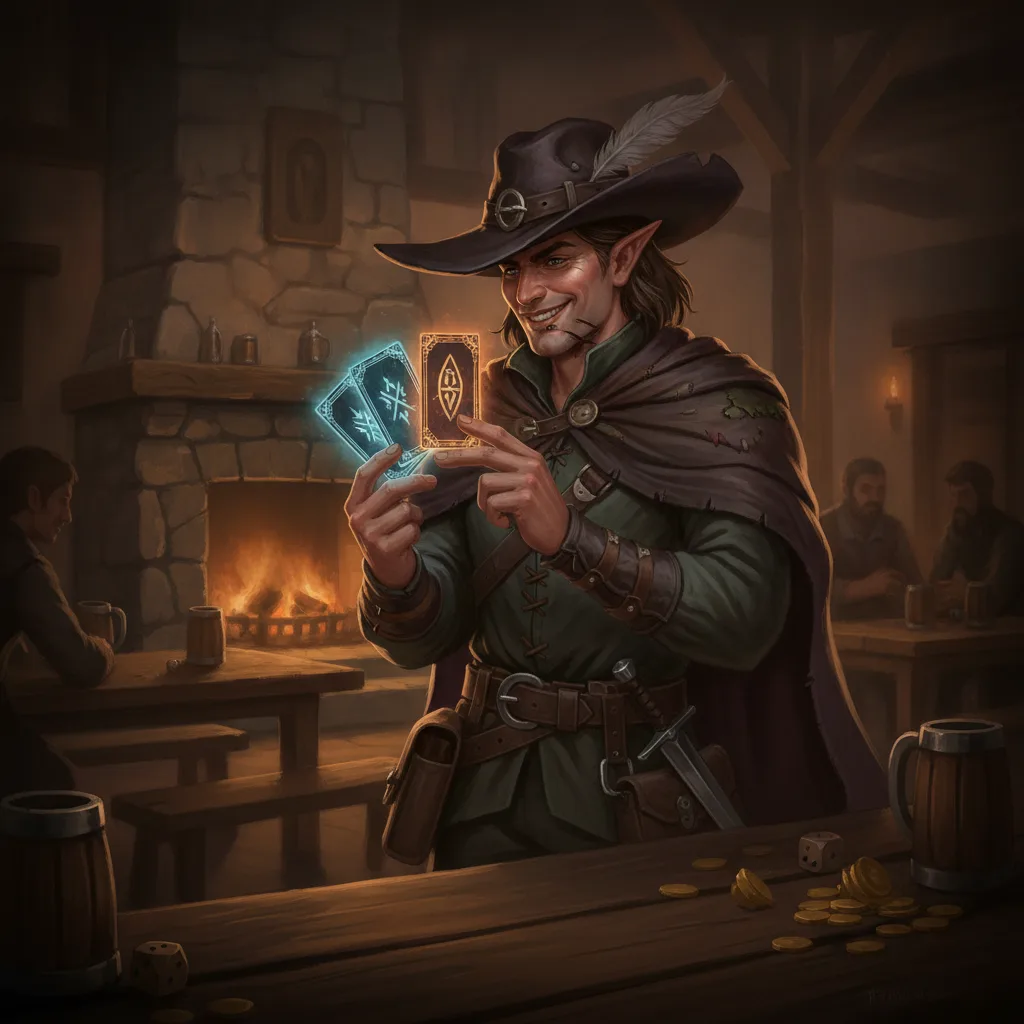
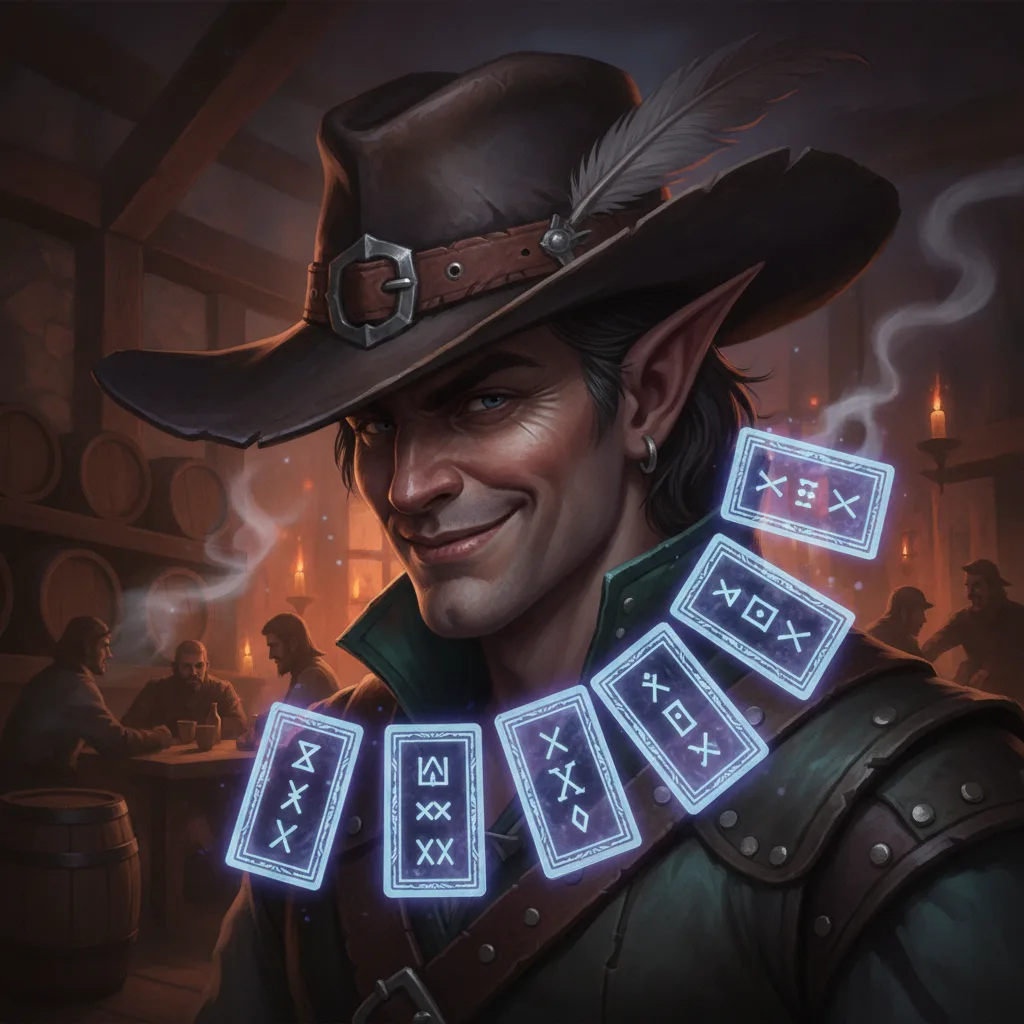
Themed keyword tooltips, two new arenas, face portraits, discard choice
- Keyword chips highlight gold on hover and show a game-styled tooltip
  (fixed-position element, so card overflow can't clip it) instead of the
  browser title popup
- Two new board backgrounds (crypt necropolis, volcanic forge) chosen
  randomly each match; all three preloaded
- Opponent portraits regenerated as close-up face shots
- Drawing at the 7-card hand limit now lets you pick which of the 8 cards to
  discard (15s countdown; timeout/Escape discards the drawn card); AI keeps
  burn-drawn behavior
- generate_art.py --only accepts dir-qualified names (opponents/berserker)
  to disambiguate card/portrait name collisions
- Expose window.game debug handle

diff --git a/public/js/game.js b/public/js/game.js
@@ -148,8 +148,8 @@ export class Game {
 
     // Opening hands: first player 5, second player 6.
     const second = first === 'player' ? 'opponent' : 'player';
-    this._drawCards(first, 5, { silent: true });
-    this._drawCards(second, 6, { silent: true });
+    await this._drawCards(first, 5, { silent: true });
+    await this._drawCards(second, 6, { silent: true });
     ui.render(this);
 
     await this._startTurn(first);
@@ -187,10 +187,10 @@ export class Game {
     await applyStartOfTurnEffects(who, s, this);
     if (s.phase === 'game-over') return;
 
-    this._drawCards(who, 1);
+    await this._drawCards(who, 1);
     while (hero._pendingDraw > 0) {
       hero._pendingDraw -= 1;
-      this._drawCards(who, 1);
+      await this._drawCards(who, 1);
     }
     if (s.phase === 'game-over') return; // fatigue can kill
 
@@ -355,7 +355,7 @@ export class Game {
 
   // ── Drawing ────────────────────────────────────────────────────────────────
 
-  _drawCards(who, n, { silent = false } = {}) {
+  async _drawCards(who, n, { silent = false } = {}) {
     const hero = this.state[who];
     for (let i = 0; i < n; i++) {
       if (hero.deck.length === 0) {
@@ -368,14 +368,39 @@ export class Game {
       }
       const card = hero.deck.pop();
       if (hero.hand.length >= HAND_CAP) {
-        hero.discard.push(card);
-        this.log(`${who === 'player' ? 'Your' : 'Opponent’s'} hand is full — ${who === 'player' ? card.name : 'a card'} is burned.`);
+        if (who === 'player' && this.state.phase !== 'game-over') {
+          await this._chooseDiscard(card);
+        } else {
+          hero.discard.push(card);
+          this.log('Opponent’s hand is full — a card is burned.');
+        }
         continue;
       }
       card._justDrawn = true;
       hero.hand.push(card);
       if (!silent && who === 'player') this.log(`You draw ${card.name}.`);
     }
+  }
+
+  // Hand full on draw: the drawn card joins the hand temporarily and the
+  // player picks which of the 8 to discard. Timeout/Escape discards the
+  // freshly drawn card.
+  async _chooseDiscard(drawnCard) {
+    const hero = this.state.player;
+    drawnCard._justDrawn = true;
+    hero.hand.push(drawnCard); // temporarily 8 cards
+    ui.render(this);
+    this.log(`You draw ${drawnCard.name} — but your hand is full!`);
+
+    const pick = await this._requestTarget(
+      'discard-hand',
+      'Hand full — click a card to discard',
+    );
+    const discard = pick || drawnCard;
+    hero.hand = hero.hand.filter((c) => c !== discard);
+    hero.discard.push(discard);
+    this.log(`You discard ${discard.name}.`);
+    ui.render(this);
   }
 
   // ── Dead sweep + Volatile ──────────────────────────────────────────────────
@@ -513,6 +538,7 @@ export class Game {
   // ── Target selection ───────────────────────────────────────────────────────
 
   // kind: 'any' (enemy creature or hero) | 'friendly' | 'enemy-creature'
+  //       | 'discard-hand' (pick one of your own hand cards)
   _requestTarget(kind, promptText) {
     const s = this.state;
     ui.showSorceryPrompt(promptText, TARGET_TIMEOUT_MS);
@@ -533,6 +559,9 @@ export class Game {
         const e = document.querySelector(`#player-board [data-instance-id="${c.instanceId}"]`);
         if (e) els.push(e);
       }
+    }
+    if (kind === 'discard-hand') {
+      els.push(...document.querySelectorAll('#player-hand .card'));
     }
     ui.highlightTargets(els);
 
@@ -646,6 +675,13 @@ export class Game {
     // Mid-sorcery target selection intercepts clicks.
     if (this._targetRequest) {
       const req = this._targetRequest;
+      if (req.kind === 'discard-hand') {
+        if (cardEl && cardEl.parentElement?.id === 'player-hand') {
+          const card = s.player.hand[Number(cardEl.dataset.handIndex)];
+          if (card) req.finish(card);
+        }
+        return;
+      }
       if (portrait && req.kind === 'any') { req.finish('hero'); return; }
       if (cardEl?.dataset.instanceId) {
         const id = cardEl.dataset.instanceId;
@@ -800,7 +836,7 @@ export class Game {
     if (this._preloaded) return;
     this._preloaded = true;
     const urls = [
-      'assets/board/arena_duel.webp',
+      ...ui.ARENAS.map((a) => `assets/board/${a}.webp`),
       ...['berserker', 'tactician', 'gambler'].map((n) => `assets/opponents/${n}.webp`),
       ...CARDS.map((c) => `assets/cards/${c.art}.webp`),
       `assets/cards/${RECRUIT_TOKEN.art}.webp`,
@@ -856,10 +892,10 @@ const SORCERY_HANDLERS = {
       notation: '1d6', label: 'Coin Flip!', context: '4+: draw 2 · 1–3: draw 1, take 1', bestThreshold: 4,
     });
     if (roll.total >= 4) {
-      game._drawCards(who, 2);
+      await game._drawCards(who, 2);
       game.log('Heads! Draw 2 cards.');
     } else {
-      game._drawCards(who, 1);
+      await game._drawCards(who, 1);
       game.dealToHero(who, 1, { source: card.name });
       game.log('Tails — draw 1, take 1 damage.');
     }
@@ -894,7 +930,7 @@ const SORCERY_HANDLERS = {
       notation: '1d6', label: 'Lucky Draw!', context: '1–2: draw 1 · 3–4: draw 2 · 5–6: draw 3', bestThreshold: 5,
     });
     const n = roll.total <= 2 ? 1 : roll.total <= 4 ? 2 : 3;
-    game._drawCards(who, n);
+    await game._drawCards(who, n);
     game.log(`Lucky Draw: ${n} card${n > 1 ? 's' : ''}.`);
   },
 
@@ -1023,7 +1059,7 @@ const SORCERY_HANDLERS = {
   S016: async (game, who, card) => {
     const roll = await game.roll(who, { notation: '2d6', label: 'Second Wind', context: 'Restore HP + draw a card' });
     game.healHero(who, roll.total, card.name);
-    game._drawCards(who, 1);
+    await game._drawCards(who, 1);
   },
 
   // Meteor — 3d6 to a target; overkill points can return HP (cap 5).
@@ -1071,10 +1107,10 @@ const SORCERY_HANDLERS = {
     if (a === 6 && b === 6) {
       game.critFanfare(who, 'Twin Fates CRITICAL!');
       game.dealToHero(enemyOf(who), roll.total * 2, { source: card.name});
-      game._drawCards(who, 2);
+      await game._drawCards(who, 2);
       game.log(`Twin sixes! ${roll.total * 2} damage AND 2 cards.`);
     } else if (a === b) {
-      game._drawCards(who, 2);
+      await game._drawCards(who, 2);
       game.log(`Doubles (${a}s) — draw 2 cards instead of damage.`);
     } else {
       game.dealToHero(enemyOf(who), roll.total, { source: card.name});
@@ -1168,13 +1204,13 @@ const SORCERY_HANDLERS = {
     const roll = await game.roll(who, {
       notation: '1d6', label: 'Wheel of Fortune!', context: 'Each player draws that many', bestThreshold: 6,
     });
-    game._drawCards('player', roll.total);
-    game._drawCards('opponent', roll.total);
+    await game._drawCards('player', roll.total);
+    await game._drawCards('opponent', roll.total);
     const bonus = await game.roll(who, {
       notation: '1d6', label: 'The Wheel spins again…', context: '5–6: you draw 1 extra', allowReroll: false,
     });
     if (bonus.total >= 5) {
-      game._drawCards(who, 1);
+      await game._drawCards(who, 1);
       game.log('The Wheel favours the caster — 1 extra card.');
     }
     ui.render(game);

diff --git a/public/css/styles.css b/public/css/styles.css
@@ -347,6 +347,52 @@ button { font-family: inherit; cursor: pointer; }
   padding: 0 3px;
   color: var(--color-focus);
   white-space: nowrap;
+  cursor: help;
+  transition: all var(--transition-fast);
+}
+
+/* Hovering a keyword lights it up and summons the themed tooltip. */
+.keyword-chip:hover {
+  background: var(--color-focus);
+  color: #1a0f05;
+  border-color: var(--color-crit);
+  box-shadow: 0 0 8px #e8a830aa;
+}
+
+#keyword-tooltip {
+  position: fixed;
+  z-index: 1300;
+  display: none;
+  max-width: 260px;
+  padding: 8px 12px;
+  background: linear-gradient(160deg, #2b1d0e, #17100a);
+  border: 1px solid var(--color-focus);
+  border-radius: 8px;
+  box-shadow: 0 6px 24px #000c, 0 0 12px #e8a83033;
+  pointer-events: none;
+}
+
+#keyword-tooltip.visible { display: block; }
+
+.keyword-tooltip-name {
+  font-size: 13px;
+  font-weight: 800;
+  color: var(--color-focus);
+  text-transform: uppercase;
+  letter-spacing: 0.06em;
+  margin-bottom: 2px;
+}
+
+.keyword-tooltip-text {
+  font-size: 12px;
+  color: var(--color-text);
+  line-height: 1.35;
+}
+
+@media (min-width: 1800px) {
+  #keyword-tooltip { max-width: 340px; }
+  .keyword-tooltip-name { font-size: 16px; }
+  .keyword-tooltip-text { font-size: 15px; }
 }
 
 .card-text {

diff --git a/public/js/ui.js b/public/js/ui.js
@@ -9,6 +9,8 @@ const HP_MAX = 25;
 const MANA_MAX = 7;
 const HP_DANGER = 8;
 
+export const ARENAS = ['arena_duel', 'arena_crypt', 'arena_forge'];
+
 function el(tag, cls, text) {
   const e = document.createElement(tag);
   if (cls) e.className = cls;
@@ -24,10 +26,11 @@ export function buildBoard(root) {
   const board = el('div', 'board');
   board.id = 'board';
 
-  // Board background art with CSS fallback if missing.
+  // Random arena per match, with CSS fallback if the image is missing.
+  const arena = ARENAS[Math.floor(Math.random() * ARENAS.length)];
   const bg = new Image();
-  bg.onload = () => { board.style.backgroundImage = `url('assets/board/arena_duel.webp')`; };
-  bg.src = 'assets/board/arena_duel.webp';
+  bg.onload = () => { board.style.backgroundImage = `url('assets/board/${arena}.webp')`; };
+  bg.src = `assets/board/${arena}.webp`;
 
   // Opponent zone.
   const oppZone = el('div', 'zone zone-opponent');
@@ -146,11 +149,45 @@ export function buildBoard(root) {
   svg.id = 'arc-svg';
   root.appendChild(svg);
 
+  // Game-themed keyword tooltip (cards clip overflow, so it lives at root).
+  const tip = el('div', '');
+  tip.id = 'keyword-tooltip';
+  root.appendChild(tip);
+  bindKeywordTooltips(root, tip);
+
   // Intro screen container.
   const intro = el('div', '');
   intro.id = 'intro-screen';
   intro.hidden = true;
   root.appendChild(intro);
+}
+
+// Delegated hover handling for keyword chips: shows a themed tooltip above the
+// chip (position accounts for hover-scaled cards via getBoundingClientRect).
+function bindKeywordTooltips(root, tip) {
+  root.addEventListener('mouseover', (ev) => {
+    const chip = ev.target.closest?.('.keyword-chip[data-keyword]');
+    if (!chip) return;
+    const text = KEYWORD_TEXT[chip.dataset.keyword];
+    if (!text) return;
+    tip.innerHTML = '';
+    tip.appendChild(el('div', 'keyword-tooltip-name', chip.dataset.keyword));
+    tip.appendChild(el('div', 'keyword-tooltip-text', text));
+    tip.classList.add('visible');
+    const rect = chip.getBoundingClientRect();
+    const tipRect = tip.getBoundingClientRect();
+    let x = rect.left + rect.width / 2 - tipRect.width / 2;
+    x = Math.max(8, Math.min(x, window.innerWidth - tipRect.width - 8));
+    let y = rect.top - tipRect.height - 8;
+    if (y < 8) y = rect.bottom + 8; // flip below when clipped at the top
+    tip.style.left = `${x}px`;
+    tip.style.top = `${y}px`;
+  });
+  root.addEventListener('mouseout', (ev) => {
+    if (ev.target.closest?.('.keyword-chip[data-keyword]')) {
+      tip.classList.remove('visible');
+    }
+  });
 }
 
 function statCol(id, label, kind) {
@@ -200,7 +237,7 @@ export function buildCardEl(card, { zone, justDrawn = false } = {}) {
     const chips = el('div', 'card-keywords');
     for (const k of card.keywords) {
       const chip = el('span', 'keyword-chip', k.value !== undefined ? `${k.name} (${k.value})` : k.name);
-      chip.title = KEYWORD_TEXT[k.name] || '';
+      chip.dataset.keyword = k.name; // custom themed tooltip (see bindKeywordTooltips)
       chips.appendChild(chip);
     }
     div.appendChild(chips);

diff --git a/public/js/main.js b/public/js/main.js
@@ -2,4 +2,8 @@
 
 import { Game } from './game.js';
 
-new Game().init();
+const game = new Game();
+game.init();
+
+// Debug handle (also used by automated tests).
+window.game = game;

diff --git a/tools/generate_art.py b/tools/generate_art.py
@@ -123,12 +123,25 @@ BOARD = {
         "The background is dark, moody, and shrouded in shadows so foreground cards "
         "pop. The center is flat and clean to host dice animations."
     ),
+    "arena_crypt": (
+        "A wide atmospheric undead crypt duel arena, a vast moonlit necropolis floor "
+        "flanked by rows of ancient mausoleums and leaning tombstones, lit by floating "
+        "ghostly blue braziers. The background is dark, moody, and shrouded in fog so "
+        "foreground cards pop. The center is flat and clean to host dice animations."
+    ),
+    "arena_forge": (
+        "A wide atmospheric volcanic forge duel arena, a colossal obsidian battlefield "
+        "ringed by channels of glowing lava, giant anvils and hanging chains at the "
+        "edges, lit from below by molten light. The background is dark, moody, and "
+        "shrouded in smoke so foreground cards pop. The center is flat and clean to "
+        "host dice animations."
+    ),
 }
 
 OPPONENTS = {
-    "berserker": "A furious bare-chested northern barbarian warlord, wild red hair, battle scars, roaring with absolute rage, dramatic torchlit dungeon background.",
-    "tactician": "A composed, calculating elven strategist in dark leather tactical armor, cold analytical eyes studying an invisible battlefield, candlelit war room.",
-    "gambler": "A roguish, grinning half-elf with a wide-brimmed hat, shuffling glowing runic cards between nimble fingers, dimly lit tavern background.",
+    "berserker": "Close-up head and shoulders portrait, face filling most of the frame: a furious bare-chested northern barbarian warlord, wild red hair, battle scars, roaring with absolute rage, dramatic torchlit dungeon background.",
+    "tactician": "Close-up head and shoulders portrait, face filling most of the frame: a composed, calculating elven strategist in dark leather tactical armor, cold analytical eyes studying an invisible battlefield, candlelit war room.",
+    "gambler": "Close-up head and shoulders portrait, face filling most of the frame: a roguish, grinning half-elf with a wide-brimmed hat, glowing runic cards fanned near his face, dimly lit tavern background.",
 }
 
 
@@ -193,7 +206,10 @@ def main():
 
     todo = []
     for path, prompt, ratio in jobs():
-        if args.only and path.stem not in args.only:
+        # --only accepts a bare basename ("hydra") or dir-qualified form
+        # ("opponents/berserker") to disambiguate name collisions with cards.
+        names = {path.stem, f"{path.parent.name}/{path.stem}"}
+        if args.only and not names.intersection(args.only):
             continue
         if path.exists() and not args.force:
             continue